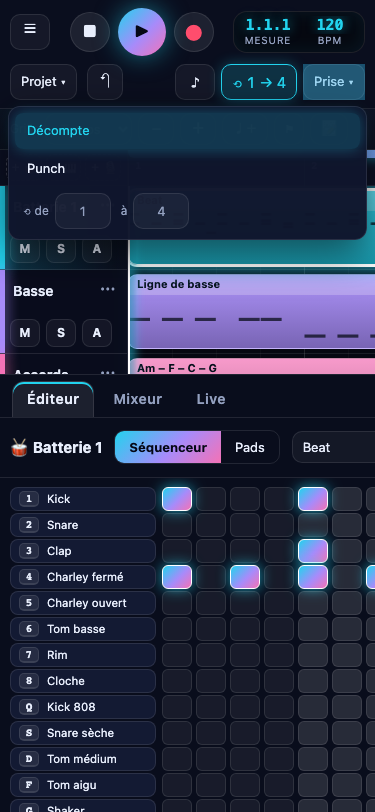
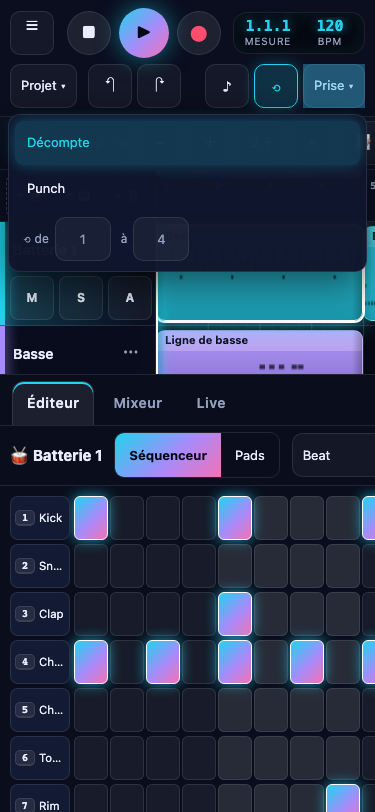
feat(V18): téléphone — Rétablir visible, quatre mesures, séquenceur par 8 pas, cibles de 44 px (audit D2-D4)
Rétablir sur la deuxième ligne (plage de boucle masquée sur le bouton, gardée dans
la bulle) ; zoom de départ à quatre mesures ; séquenceur en pages de 8 pas
glissées, cases 34 × 44 ; au moins 44 px pour tout ce qu'on touche. L'accordeur
repart de zéro à chaque ouverture. QA PH01-PH04, MB01/MB02 adaptés ; 404/404.

diff --git a/src/style.css b/src/style.css
@@ -368,21 +368,22 @@ dialog form { display: flex; justify-content: flex-end; margin-top: 14px; }
 
 /* Téléphone : barre supérieure sur une ligne défilante, en-têtes de piste compacts */
 @media (max-width: 760px) {
-  :root { --headw: 128px; }
+  :root { --headw: 156px; }
   /* Téléphone (V18) : ligne 1 = ☰, transport, compteur ; ligne 2 = projet, métronome, boucle, prise */
   #top { padding: 8px 10px; gap: 8px; backdrop-filter: none; background: #0a0e1e; justify-content: space-between; }
-  .brand, .dtime, #bTap, #sig, #bRedo { display: none !important; }
+  .brand, .dtime, #bTap, #sig { display: none !important; }
   #more { order: -1; margin-left: 0; }
   #more > summary { display: flex; width: 40px; justify-content: center; font-size: 18px; }
   #more > .grp.out { position: fixed; left: 8px; right: 8px; z-index: 30; flex-wrap: wrap; padding: 10px; border-radius: 12px; background: rgba(15, 21, 44, .98); border: 1px solid var(--line); box-shadow: 0 12px 40px rgba(0, 0, 0, .6); }
-  .grp.proj { order: 3; } .grp.play { order: 4; margin-left: auto; gap: 6px; } #bRename { display: block; }
+  .grp.proj { order: 3; gap: 5px; } .grp.play { order: 4; margin-left: auto; gap: 5px; } #bRename { display: block; }
+  #top { row-gap: 6px; } .grp.play #bLoop .lrange { display: none; }
   .grp.proj .pname { display: none; } .grp.proj #menu > summary { border-radius: 10px; }
   .menu-list { position: fixed; left: 8px; right: 8px; min-width: 0 !important; }
   #menu .menu-list, #mTake .menu-list { left: 8px; right: 8px; }
   #abar { padding: 4px 10px; gap: 6px; }
-  .tbtn { width: 40px; height: 40px; } .tbtn.play { width: 48px; height: 48px; }
+  .tbtn { width: 44px; height: 44px; } .tbtn.play { width: 50px; height: 50px; }
   .display { gap: 10px; padding: 4px 8px; } .display span, .display input { min-width: 52px; width: 52px; font-size: 15px; }
-  .head { padding: 6px 2px 6px 10px; } .head .tvol, .head .ticon { display: none; } .head .tname { padding: 0 2px; } .tmenu > summary.tmore { min-width: 26px; }
+  .head { padding: 5px 2px 5px 10px; } .head .tvol, .head .ticon { display: none; } .head .tname { padding: 0 2px; height: 44px; }
   .corner .add span { display: none; }
   .ahead .albl { display: none; }
   main { grid-template-rows: 1fr 54vh; }
@@ -397,6 +398,22 @@ dialog form { display: flex; justify-content: flex-end; margin-top: 14px; }
   .ebar .tip, .synth .tip { display: none; }
   .escroll { padding: 8px 10px; }
   .pact { display: none; } /* au doigt, les réglages d'un pad passent par la liste à côté des pads */
+  /* V18 (audit D4) : au doigt, au moins 44 px pour tout ce qu'on touche */
+  :root { --th: 104px; }
+  .pill, .icon, select, #top summary, #abar .pill, #abar .icon, #abar select, .ebar button, .ebar select, .seg, .head .mini, .tmenu > summary.tmore, .corner .add, #tabs button { min-height: 44px; min-width: 44px; }
+  .head .hrow { gap: 5px; } .head .mini { min-width: 44px; }
+  .corner, .ruler { height: 52px; } .corner { align-items: center; } .corner .add { padding: 0 6px; }
+  .menu-list button, .menu-list .pill { min-height: 44px; }
+  /* V18 (audit D3) : séquenceur par pages de 8 pas, glissées au doigt ; cases de 44 px de haut */
+  .grp.play #bMetro, .grp.play #bLoop { min-width: 44px; }
+  .mini-in input, .cname-in, .pname { height: 44px; }
+  .dgrid { --lw: 60px; }
+  .ed-grid.dgrid { scroll-snap-type: x mandatory; }
+  .escroll:has(> .dgrid), .escroll .dgrid { scroll-snap-type: x mandatory; }
+  .dlabel { width: var(--lw); min-width: var(--lw); height: 44px; gap: 4px; padding: 0 4px; }
+  .dlabel span { overflow: hidden; text-overflow: ellipsis; }
+  .dgrid .cell { width: 34px; min-width: 34px; height: 44px; margin: 2px 1px; }   /* 8 pas visibles : 8 × 36 px + étiquettes sur 375 px */
+  .dgrid .cell.page { scroll-snap-align: start; scroll-margin-left: calc(var(--lw) + 14px); }   /* étiquette collante + marge + bord de la zone */
 }
 
 /* ================= V5 ================= */

diff --git a/src/ui/editor.ts b/src/ui/editor.ts
@@ -165,7 +165,7 @@ function drumEditor(tr: Track, c: Clip | null) {
     const line = h('div', { class: 'drow' },
       h('button', { class: 'dlabel', title: t('drum.listen', padName(tr, r)), onclick: () => engine.pad(tr, r) }, h('kbd', {}, keyLabel(PAD_KEYS[r])), h('span', {}, padName(tr, r))));
     row.forEach((v, s) => line.append(h('button', {
-      class: `cell${v ? ' on' : ''}${v && v < 1 ? ' soft' : ''}${beat(s) % 2 ? ' alt' : ''}${isBar(s) ? ' barstart' : ''}`,
+      class: `cell${v ? ' on' : ''}${v && v < 1 ? ' soft' : ''}${beat(s) % 2 ? ' alt' : ''}${isBar(s) ? ' barstart' : ''}${s % 8 === 0 ? ' page' : ''}`,   // page : arrêt du glissé par 8 pas sur téléphone
       data: { r: String(r), s: String(s) }, 'aria-label': `${padName(tr, r)} ${s + 1}`, 'aria-pressed': String(!!v),
       tabindex: r === gridPos.r && s === gridPos.s ? '0' : '-1',
     })));
@@ -749,9 +749,12 @@ let tunerHz = 0, tunerMiss = 0;
 /** Dernières mesures brutes : une note ne s'affiche qu'une fois confirmée par 3 mesures concordantes (à 3 % près),
  *  pour qu'une trame abîmée (ordinateur chargé, attaque, bruit) ne donne pas un écart faux. */
 const tunerRaw: number[] = [];
+let tunerShown = false;
 export function updateTuner() {
   const el = document.querySelector<HTMLElement>('.tuner');
-  if (!el) return;
+  if (!el) { tunerShown = false; return; }
+  // Accordeur qui vient d'apparaître : il repart de zéro, sans glisser depuis la note de sa dernière utilisation.
+  if (!tunerShown) { tunerShown = true; tunerHz = 0; tunerRaw.length = 0; tunerMiss = 0; }
   const hz = engine.inputPitch();
   if (hz) {
     tunerRaw.push(hz); if (tunerRaw.length > 5) tunerRaw.shift();

diff --git a/src/ui/top.ts b/src/ui/top.ts
@@ -220,7 +220,9 @@ export function renderTop() {
   $<HTMLInputElement>('loopS').value = String(p.loopStart + 1);
   $<HTMLInputElement>('loopE').value = String(p.loopStart + p.loopLen);
   const lr = t('top.loopRange', p.loopStart + 1, p.loopStart + p.loopLen);
-  $('bLoop').textContent = `⟲ ${p.loopStart + 1} → ${p.loopStart + p.loopLen}`; $('bLoop').title = t('top.loopTip') + ' — ' + lr; $('bLoop').setAttribute('aria-label', t('top.loop') + ' — ' + lr);
+  // Sur téléphone, la plage est masquée sur le bouton ; la bulle et le nom accessible la gardent.
+  $('bLoop').replaceChildren('⟲ ', h('span', { class: 'lrange' }, `${p.loopStart + 1} → ${p.loopStart + p.loopLen}`));
+  $('bLoop').title = t('top.loopTip') + ' — ' + lr; $('bLoop').setAttribute('aria-label', t('top.loop') + ' — ' + lr);
   $('bExport').title = t('top.exportTip') + ' — ' + exportSummary();
   $<HTMLSelectElement>('snap').value = String(S.snap);
   $<HTMLSelectElement>('sig').value = String(p.sig);

diff --git a/src/main.ts b/src/main.ts
@@ -181,6 +181,8 @@ function crashNotice() {
   S.selTrack = S.project.tracks[0]?.id ?? '';
   S.selClip = S.project.tracks[0]?.clips[0]?.id ?? '';
   initArrDrop(); initFileInputs(); listenSystemOpen();
+  // Téléphone (audit D3) : le morceau s'ouvre avec quatre mesures visibles au lieu d'une et demie.
+  if (matchMedia('(max-width: 760px)').matches) S.px = clamp((innerWidth - 156 - 12) / (4 * (S.project.sig || 4) * 4), 3, 44);
   rebuild();
   engine.prepare().then(() => emit()); // instruments réels du projet rouvert
   // Version bureau macOS : moteur audio natif, s'il a été activé dans les Réglages audio.

diff --git a/docs/PASSATION.md b/docs/PASSATION.md
@@ -704,8 +704,9 @@ Demande du propriétaire : refonte ciblée de l'interface, en commençant par la
 
 - **Correctifs de l'audit** (session d'audit, branche `v18-correctifs`, fusionnée dans `v18` en avance rapide à `0007113` avec l'accord du propriétaire) : D5 séquenceur au clavier (une seule case dans l'ordre de Tab, flèches, Début, Fin), D6 prise d'un seul tenant, D7 tempo au centième, D8 bandeau de sauvegarde impossible avec « Enregistrer en fichier », D9 vraie disposition du clavier, D10 accordeur confirmé sur 3 mesures sur 5, D11 export des projets de 12 pistes ou plus rendu par groupes en parallèle (42 s → 22,9 s pour le gros projet de 40 pistes). Cas AD01-AD08, en fin de `qa/run.cjs`. Détail, mesures et non-vérifié : `docs/correctifs-audit-2026-11.md`. Campagne 353/353 (session d'audit).
 
+- **Téléphone, défauts D2 à D4 de l'audit** (branche `v19-telephone`, partie de `v19` à `06d3aa6`, 19/11/2026) : Rétablir de nouveau visible (la plage de la boucle est masquée sur le bouton pour lui faire place, la bulle la garde) ; le morceau s'ouvre avec quatre mesures visibles (zoom de départ calculé dans `main.ts`) ; séquenceur par pages de 8 pas entiers, cases de 34 × 44 px, glissé arrêté pile sur les pas 9, 17… (`scroll-snap`, classe `page` tous les 8 pas dans `editor.ts`) ; tout ce qu'on touche fait au moins 44 px (pistes hautes de 104 px, colonne des pistes à 156 px, M/S/A, ⋯, ajout de pistes, menus, barre d'arrangement, éditeur, onglets). Exceptions assumées : les cases du séquenceur font 34 px de large (8 pas sur 375 px), le champ du tempo est petit mais tout le compteur autour le rend touchable. QA PH01-PH04 ; MB01 (colonne des pistes ≤ 160 px) et MB02 (glissé calculé d'après le zoom, couloir d'automation amené à l'écran) adaptés. L'accordeur repart de zéro à chaque ouverture (avant, l'aiguille glissait depuis la note de sa dernière utilisation ; AD06 échouait dans la campagne complète). Campagne complète 404/404.
+
 ### Reste à faire (suite de la V18)
-- Défauts D2 à D4 de l'audit (`docs/audit-2026-11.md`, branche `audit-2026-11`) : bouton Rétablir absent sur téléphone ; le morceau n'affiche qu'une mesure et demie, le séquenceur 6 pas sur 16 ; cibles de moins de 32 px au doigt. D5 à D11 sont corrigés par une autre session sur `v18-correctifs`.
 - Ajout de pistes : toujours dans le coin des pistes (la maquette les plaçait dans la barre d'arrangement).
 
 ### Non vérifié

diff --git a/qa/REPORT.md b/qa/REPORT.md
@@ -1,6 +1,6 @@
 # Rapport de QA — KH Music Pro
 
-395 cas réussis sur 395.
+404 cas réussis sur 404.
 
 | Cas | Domaine | Cas d'usage | Résultat |
 |---|---|---|---|
@@ -399,3 +399,12 @@
 | QZ03 | Quantification | Humaniser : petits décalages (± 0,12 pas) et forces (± 12 %) au hasard, annulables ; sur la sélection seulement | OK |
 | QZ04 | Quantification | Légato : chaque note va jusqu’à la suivante, un accord garde une seule fin, la dernière va jusqu’au bout du clip | OK |
 | QZ05 | Quantification | Menu au clavier (Tab, Entrée, flèches), réglages gardés pendant la séance, textes traduits | OK |
+| AI01 | Instruments du Mac | Choisir un instrument du Mac dans la liste : la piste le joue, ses réglages sont dans sa fenêtre | OK |
+| AI02 | Instruments du Mac | Jeu au clavier MIDI : note, relâchement, pitch bend, molette et pédale partent vers le plugin | OK |
+| AI03 | Instruments du Mac | Lecture d’un clip : chaque note part à son instant et se relâche à sa fin ; l’arrêt coupe tout | OK |
+| AI04 | Instruments du Mac | L’état réglé dans la fenêtre est gardé dans le projet, rechargé dans le plugin, et l’export reste d’un seul tenant | OK |
+| AI05 | Instruments du Mac | Version web : pas de liste, piste muette annoncée, export possible ; textes traduits | OK |
+| PH01 | Téléphone | Rétablir est visible au doigt sur téléphone : annuler puis rétablir une case du séquenceur | OK |
+| PH02 | Téléphone | Le morceau s’ouvre sur téléphone avec au moins quatre mesures visibles | OK |
+| PH03 | Téléphone | Séquenceur sur téléphone : 8 pas entiers à la fois, cases hautes de 44 px, glisser passe aux 8 suivants, toucher allume | OK |
+| PH04 | Téléphone | Au doigt, tout ce qu’on touche fait au moins 44 px (barre, arrangement, pistes, éditeur, onglets, menus) et rien ne déborde | OK |

diff --git a/README.md b/README.md
@@ -44,6 +44,8 @@ Sur **téléphone**, la barre tient sur deux lignes sans déborder : ☰, transp
 
 **Correctifs de l'audit de novembre 2026** (détail : `docs/correctifs-audit-2026-11.md`) : séquenceur au clavier avec les flèches, une prise sur plusieurs mesures donne un seul clip, tempo au centième (93,5), bandeau quand la sauvegarde devient impossible (appareil plein) avec « Enregistrer en fichier », lettres du clavier prises de la vraie disposition, accordeur plus stable sur une machine chargée, export des gros projets environ deux fois plus rapide (pistes rendues par groupes sur plusieurs cœurs).
 
+**Téléphone** : Rétablir est sur la deuxième ligne ; le morceau s'ouvre avec quatre mesures visibles ; le séquenceur montre 8 pas à la fois en grandes cases, un glissé du doigt passe aux 8 suivants ; tout ce qu'on touche fait au moins 44 px.
+
 Les menus s'ouvrent d'un clic ou d'un toucher et se referment d'un clic ailleurs ou avec Échap (le focus revient au bouton). Les raccourcis clavier ne changent pas.
 
 ## Piano électrique, basse et percussions (v0.17.1)
@@ -174,7 +176,7 @@ Les sons ont une seule couche de vélocité. Les orgues à tirettes et d’égli
 
 ## QA
 
-Chaque cas d'usage est couvert par un test de bout en bout dans un vrai navigateur (`qa/run.cjs`, 353 cas).
+Chaque cas d'usage est couvert par un test de bout en bout dans un vrai navigateur (`qa/run.cjs`, 404 cas).
 Le plus simple, serveur compris :
 
 ```bash
